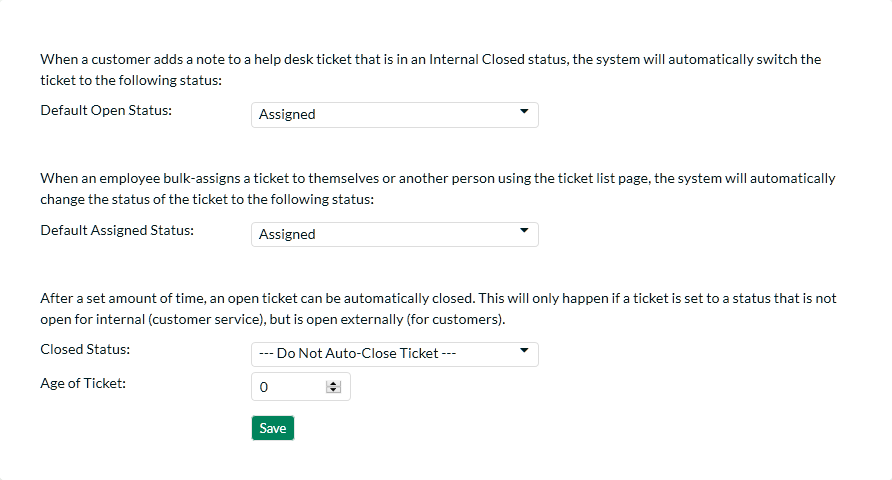
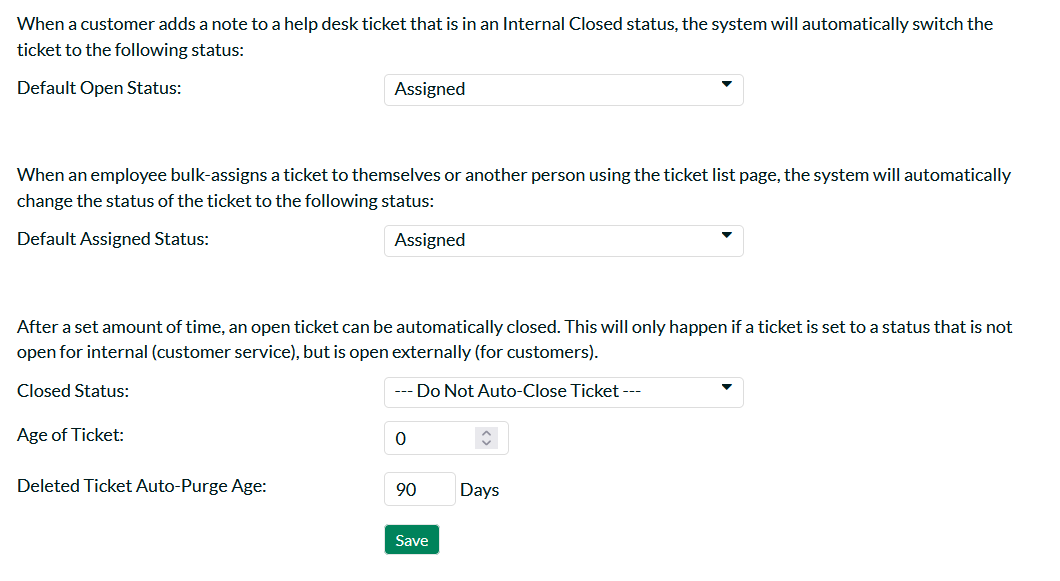
Adding SLAs and updating on-prem reqs

diff --git a/docs/Administration-Guide/Installing-KronoDesk.md b/docs/Administration-Guide/Installing-KronoDesk.md
@@ -19,10 +19,10 @@ KronoDesk<sup>®</sup> system are:
 | **Server Requirements** | |
 | **Processor:**                    | Intel® or AMD® x86 or x64 compatible processor              |
 | **Memory:**                       | 8 GB recommended                  |
-| **Database:**                     | Microsoft SQL Server 2017 <br> Microsoft SQL Server 2016 <br> Microsoft SQL Server 2014 <br> Microsoft SQL Server 2012 <br> Microsoft SQL Server 2008 R2 <br> SQL Server Express is supported, <br> but not recommended for <br> production due to limitations.    |
-| **Web Server:**                   | Internet Information Services  (IIS) 7.0 or higher <br> .NET 4.5.2 Framework or higher    |
+| **Database:**                     | Microsoft SQL Server 2025 <br> Microsoft SQL Server 2022 <br> Microsoft SQL Server 2019 <br> Microsoft SQL Server 2016 <br> SQL Server Express is supported, <br> but not recommended for <br> production due to limitations.    |
+| **Web Server:**                   | Internet Information Services  (IIS) 7.0 or higher <br> .NET 4.7.2 Framework or higher    |
 | **Client Requirements**           |                                   |
-| **Web Browser:**                  | Mozilla Firefox <br> Google Chrome (Desktop and Android) <br> Apple Safari (Desktop and iOS) <br> Microsoft Edge <br> Opera <br> Internet Explorer 11.0 (not recommended)                      |
+| **Web Browser:**                  | Mozilla Firefox <br> Google Chrome (Desktop and Android) <br> Apple Safari (Desktop and iOS) <br> Microsoft Edge <br> Opera                      |
 
 \*Note that KronoDesk<sup>®</sup> can be loaded onto either Windows Server or
 workstation editions, provided that the IIS web-server is installed and
@@ -47,21 +47,18 @@ following order:
 
 - Install the .NET Framework v4.5.2
 
-- Install SQL Server 2008R2, 2012, 2014, 2016, or 2017.
-
-- Install the latest version of Internet Explorer that your server OS
-allows
+- Install SQL Server 2016, 2019, 2022, or 2025.
 
 - Ensure that IIS is installed
 
-- Ensure that ASP.NET 4.5.2 is enabled
+- Ensure that ASP.NET 4.7.2 is enabled
 
-## Install the .NET Framework v4.5.2.
+## Install the .NET Framework v4.7.2.
 
-On Windows 10, 8 and Windows Server 2012+ installations, Microsoft .NET
-Framework v4.5.2 is usually installed as part of the factory
+On Windows 10, 11 and Windows Server 2016+ installations, Microsoft .NET
+Framework v4.7.2 is usually installed as part of the factory
 configuration, whereas on earlier operating systems, you might need to
-manually add the .NET 4.5.2 framework.
+manually add the .NET 4.7.2 framework.
 
 To see which version of the Microsoft .NET framework installed, open up
 Windows Explorer® and navigate to
@@ -76,13 +73,13 @@ have installed:
 
 To install the .NET Framework, please go to the Microsoft website and
 install the latest version of the .NET Framework available for your
-operating system. At the time of writing it was .NET 4.6.
+operating system. At the time of writing it was .NET 4.8.1.
 
-## Install SQL Server 2008R2+
+## Install SQL Server 2016+
 
 Install the appropriate version of the database software, following the
 instructions provided with the installation. Since KronoDesk is an
-enterprise-level software, we recommend SQL Server 2008 R2+, Web,
+enterprise-level software, we recommend SQL Server 2016+, Web,
 Standard, or Enterprise editions. Express editions have limitations on
 Ram and CPU usage, and can cause significant performance issues. We also
 recommend enabling FullText indexing, as KronoDesk will take advantage
@@ -100,7 +97,7 @@ browsers, some pages may not appear correctly.
 On Widows Server installations, you may have to install the IIS Role if
 it is not already active.
 
-On **Windows Server 2012+**, you need to click on Server Manager, then
+On **Windows Server 2016+**, you need to click on Server Manager, then
 under the "Roles" heading, choose the option to "Add Role" followed by
 selecting the new role "Web Server / IIS". Then click "Next" to bring up
 the role configuration screen:
@@ -130,13 +127,9 @@ Make sure that the following features are enabled:
 
         - Application Development
 
-            - .NET Extensibility 3.5
+            - .NET Extensibility 4.7.2
 
-            - .NET Extensibility 4.5
-
-            - ASP.NET 3.5
-
-            - ASP.NET 4.5
+            - ASP.NET 4.7.2
 
             - ISAPI Extensions
 
@@ -148,11 +141,11 @@ Make sure that the following features are enabled:
 
             - IIS Management Service
 
-- .NET Framework 4.5 Features
+- .NET Framework 4.7.2 Features
 
-    - .NET Framework 4.5
+    - .NET Framework 4.7.2
 
-    - ASP.NET 4.5
+    - ASP.NET 4.7.2
 
     - WCF Services
 

diff --git a/docs/Administration-Guide/Help-Desk-Settings.md b/docs/Administration-Guide/Help-Desk-Settings.md
@@ -93,6 +93,8 @@ statuses.
 All statuses must have a display name, which is viewed by the user
 editing or viewing the ticket. The other fields are:
 
+- **Highlight Color** - you can optionally add a background color to the statuses when displayed in the ticket grid. This can be useful to highlight certain statuses that need urgent action.
+
 -   **Closed for Internal?** - Whether this status is considered as
 inactive for internal users (employees, support agents, etc.). For
 example the sample status 'Waiting on Customer' would be considered
@@ -154,6 +156,8 @@ status that the ticket will be switched to.
 this number of days old, the status will be automatically
 closed.
 
+- **Deleted Ticket Auto-Purge Age** - this setting determines how long deleted tickets remain in the system before they are automatically purged. To retain all tickets and prevent auto-purging, enter `0` as the value.
+
 ## Ticket Types
 
 The Ticket Type page defines values allowed for the standard Type field
@@ -163,12 +167,17 @@ user sees when they view or edit a type.
 ![](img/Help_Desk_Settings_52.png)
 
 
+All types must have a display name, which is viewed by the user
+editing or viewing the ticket. The other fields are:
 
+- **Highlight Color** - you can optionally add a background color to the types when displayed in the ticket grid. This can be useful to highlight certain types that typically need more attention.
 
-To add a new type, click the Add New Type link, and fill out the new
+To add a new type, click the `Add New Type` link, and fill out the new
 empty row.
 
-To remove a type, click the Remove button to the right of the defined
+KronoDesk allows you to define **SLAs** with each ticket type. To view/edit the SLA, click on the `View/Edit SLAs` link. You can learn more about SLAs by refering to the [Managing SLAs section](#ticket-slas).
+
+To remove a type, click the `Remove` button to the right of the defined
 type. Note that any tickets assigned to a type that is removed will
 retain their type, until the next time a user tries to edit the ticket.
 
@@ -210,6 +219,26 @@ To remove a resolution, click the Remove button to the right of the
 resolution. Note that any tickets assigned to a resolution that is
 removed will retain their value, until the next time a user tries to
 edit the ticket.
+
+## Ticket SLAs
+
+TBD
+
+## Working Hours
+
+KronoDesk lets you define the standard working hours, which are used when measuring times against the defined [SLAs](#ticket-slas).
+
+![](img/Help_Desk_Settings_Working_Hours1.png)
+
+You specify the start and end time for each day of the week. If you leave the times blank for that day, it's considered a non working day (e.g. Saturday and Sunday would be left blank if weekends are considered non-working days).
+
+*Note: the working hours are based on the timezone of the instance of KronoDesk, not the individual timezone of specific users or organizations.*
+
+To account for public holidays and other special non-working days, there is an additional section below:
+
+![](img/Help_Desk_Settings_Working_Hours2.png)
+
+You can add any special one-off days in this section, which are also considered non-working.
 
 ## Spira Integration
 
